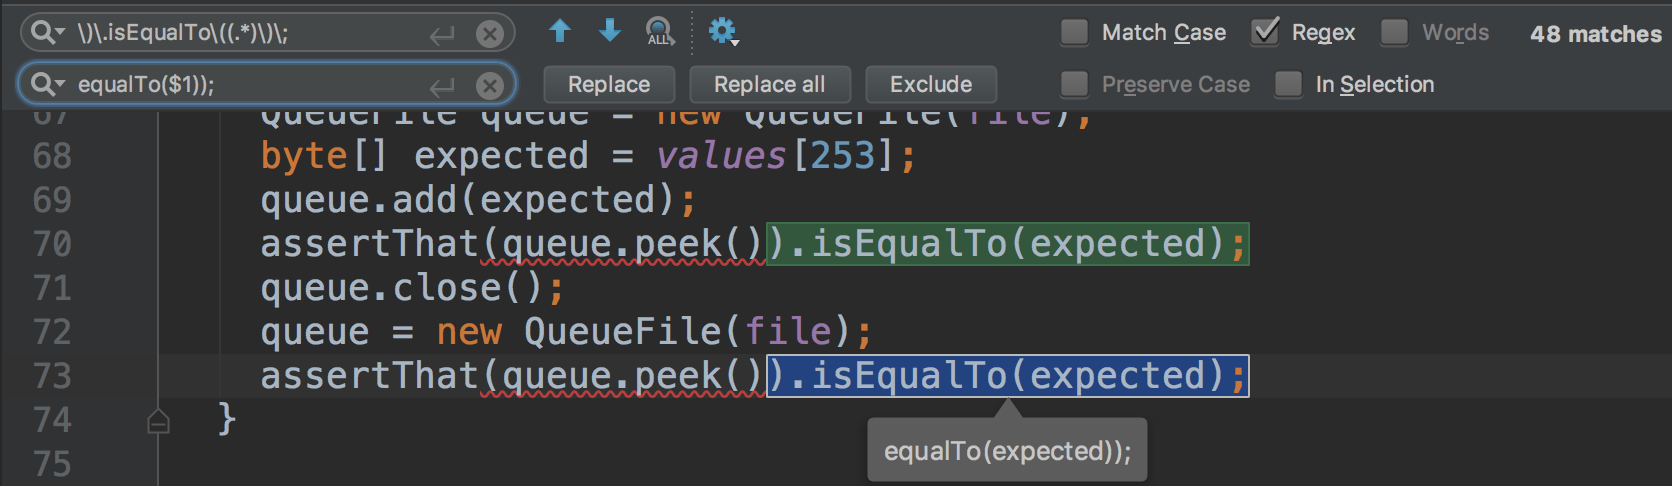
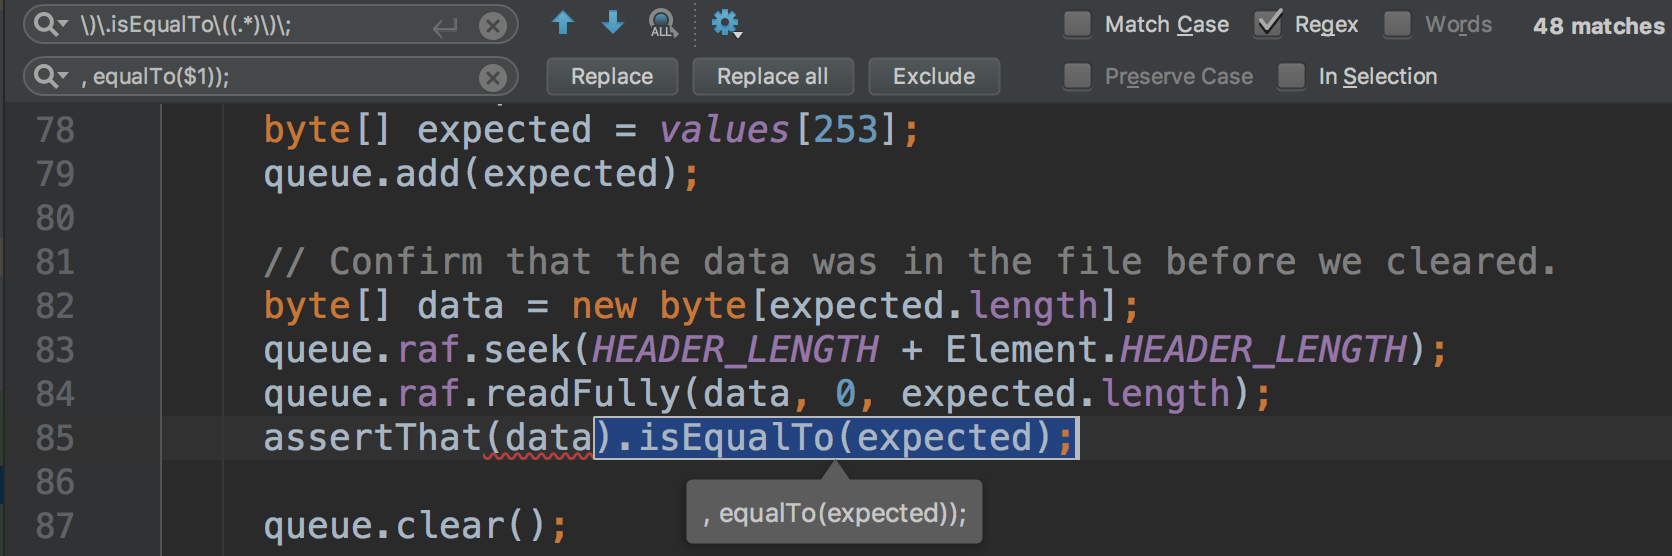
re-re-fix of instructions, plus updated screenshot to match

diff --git a/docs/ThirdParty.md b/docs/ThirdParty.md
@@ -561,7 +561,7 @@ easy to bulk-convert these to the Hamcrest equivalent: `assertThat(..., equalTo(
 
 Open up the Replace panel (e.g., Ctrl-R, Command-R) and ensure that the "Regex"
 checkbox is checked. Then ask to search for `\)\.isEqualTo\((.*)\)\;`, replacing
-it with `.equalTo($1));`:
+it with `, equalTo($1));`:
 
 ![Android Studio, Showing Regex Replace Panel](./ThirdParty-6.png)
 
